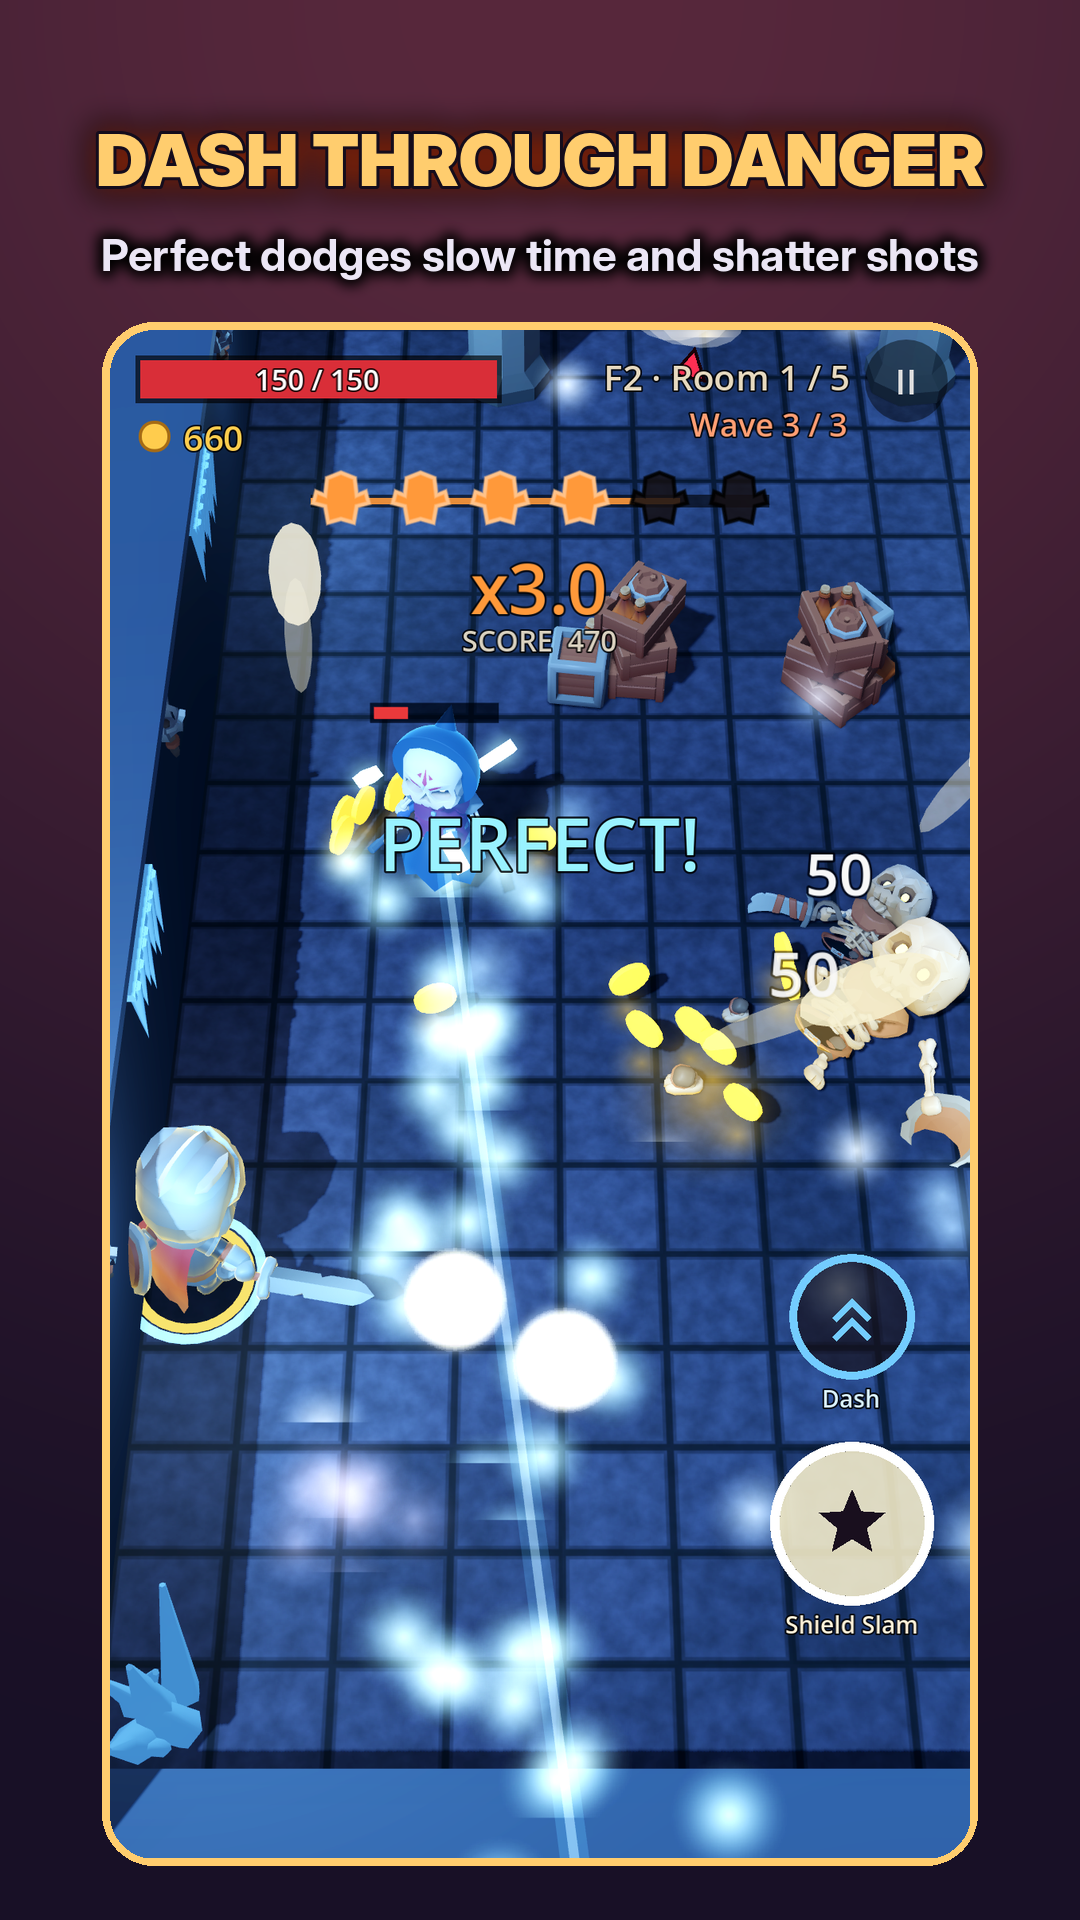
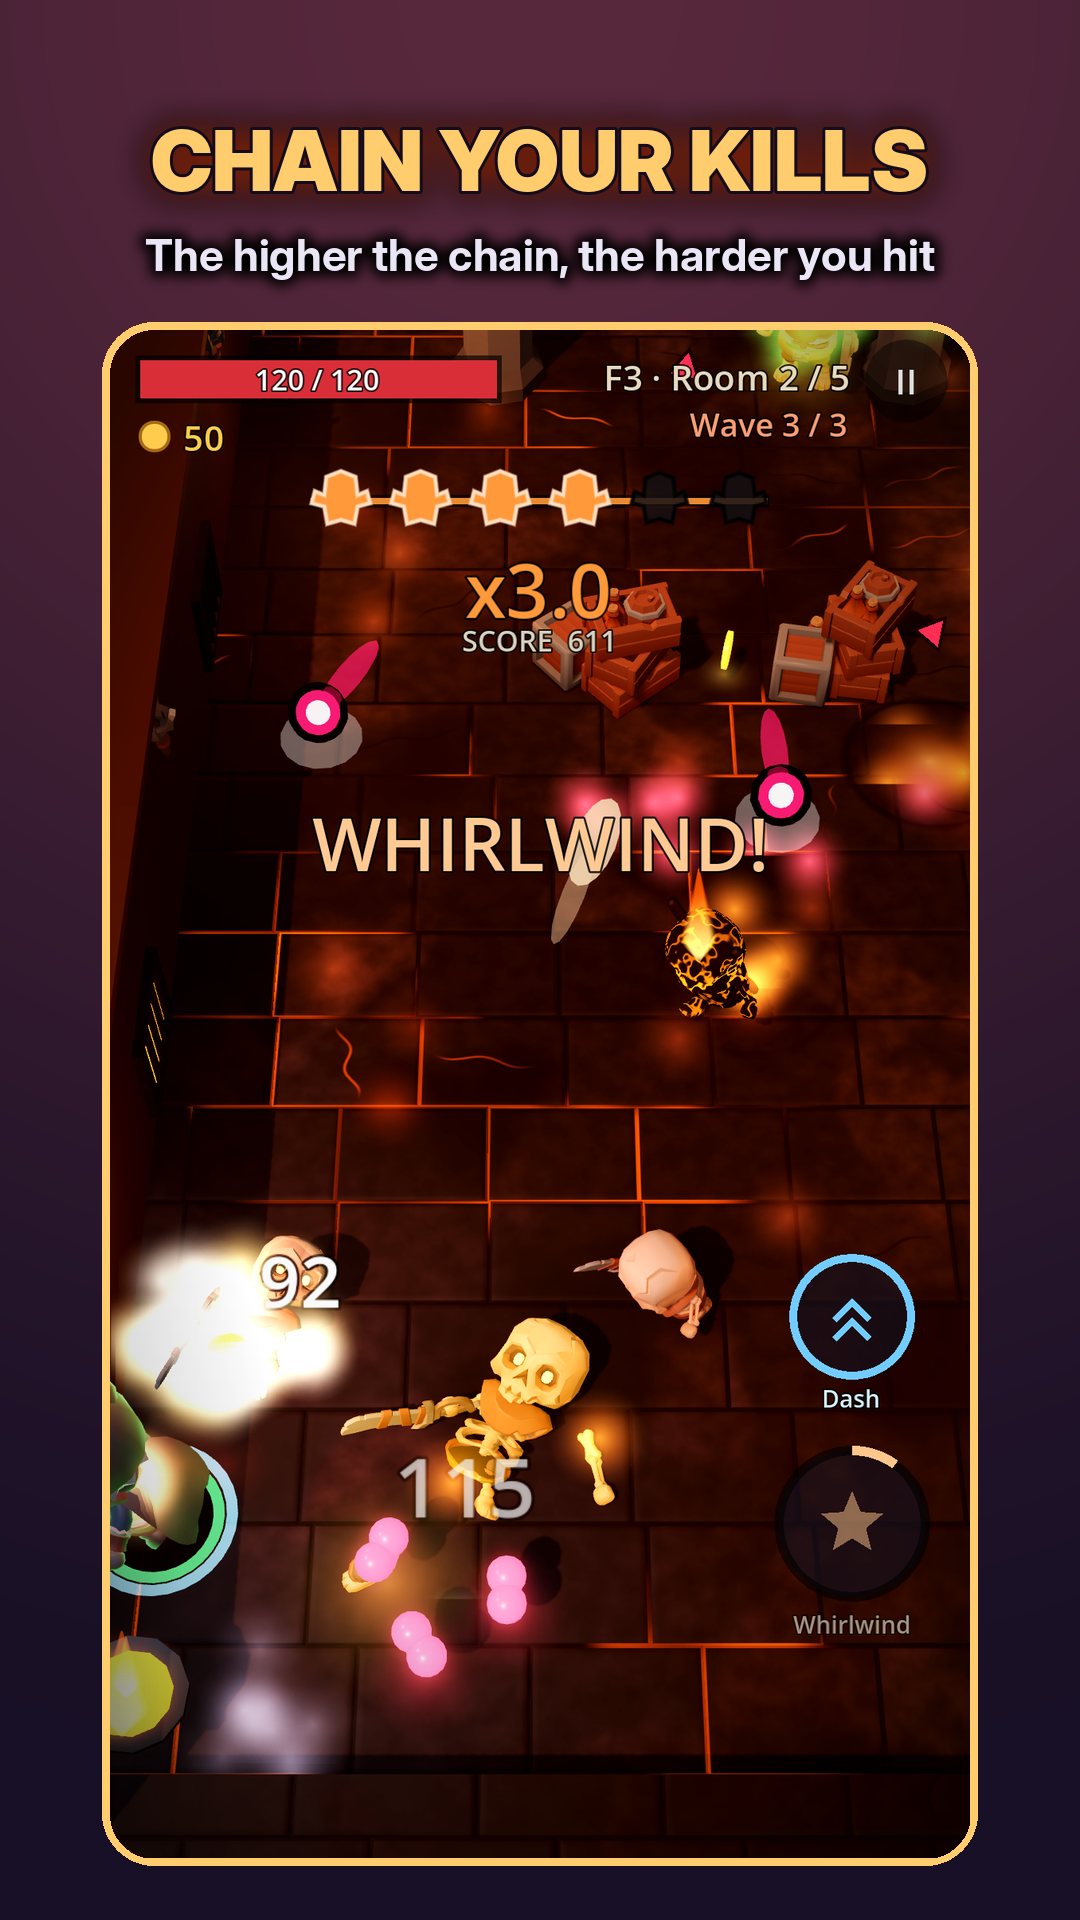
Store screenshots: new look, chain shot first [skip ci]
Re-shot all six store screenshots at 1080x1920 with the robot on the current build
(new floors, room look and HUD since version 73). The CHAIN YOUR KILLS shot (chain at
x3.0, Whirlwind going off) is now screenshot 1, as the launch plan asked, and the
perfect-dodge shot is screenshot 2. Drop the committed __pycache__ and ignore it.
Store images only, so no app build is needed.

Claude-Session: https://claude.ai/code/session_011dCkZfSyMufLvisEdWMgRS

diff --git a/tools/store/compose.py b/tools/store/compose.py
@@ -22,10 +22,10 @@ GOLD = (255, 205, 110)
 EMBER = (255, 120, 40)
 NIGHT = (24, 16, 38)
 
-# (screenshot, caption, sub-caption)
+# (screenshot, caption, sub-caption). The chain comes first: it's the game's name.
 SHOTS = [
-    ("dodge", "DASH THROUGH DANGER", "Perfect dodges slow time and shatter shots"),
     ("ember", "CHAIN YOUR KILLS", "The higher the chain, the harder you hit"),
+    ("dodge", "DASH THROUGH DANGER", "Perfect dodges slow time and shatter shots"),
     ("doors", "CHOOSE YOUR PATH", "Pick a door after every room"),
     ("blessings", "A NEW BUILD EVERY RUN", "Fire, frost, bolts and bone blessings"),
     ("heroes", "FOUR HEROES", "Each with their own special move"),
